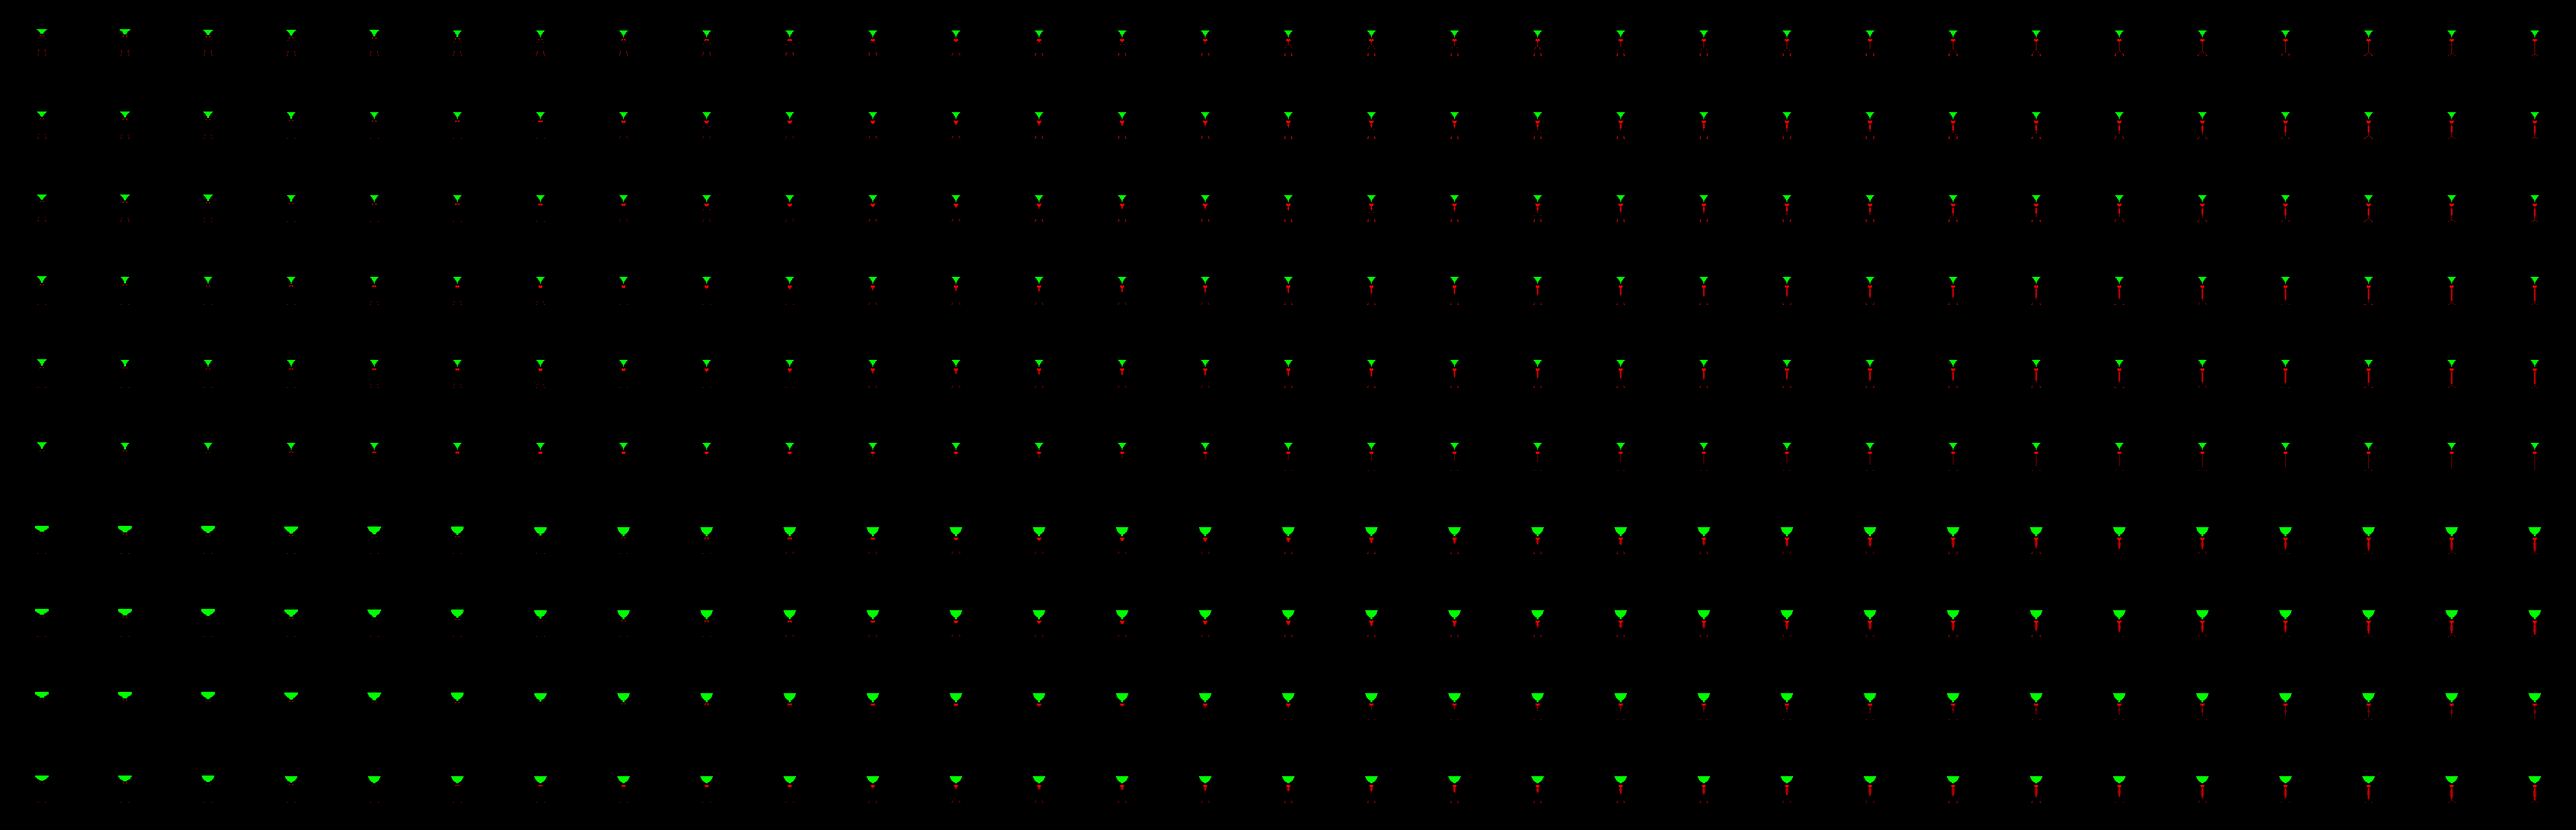
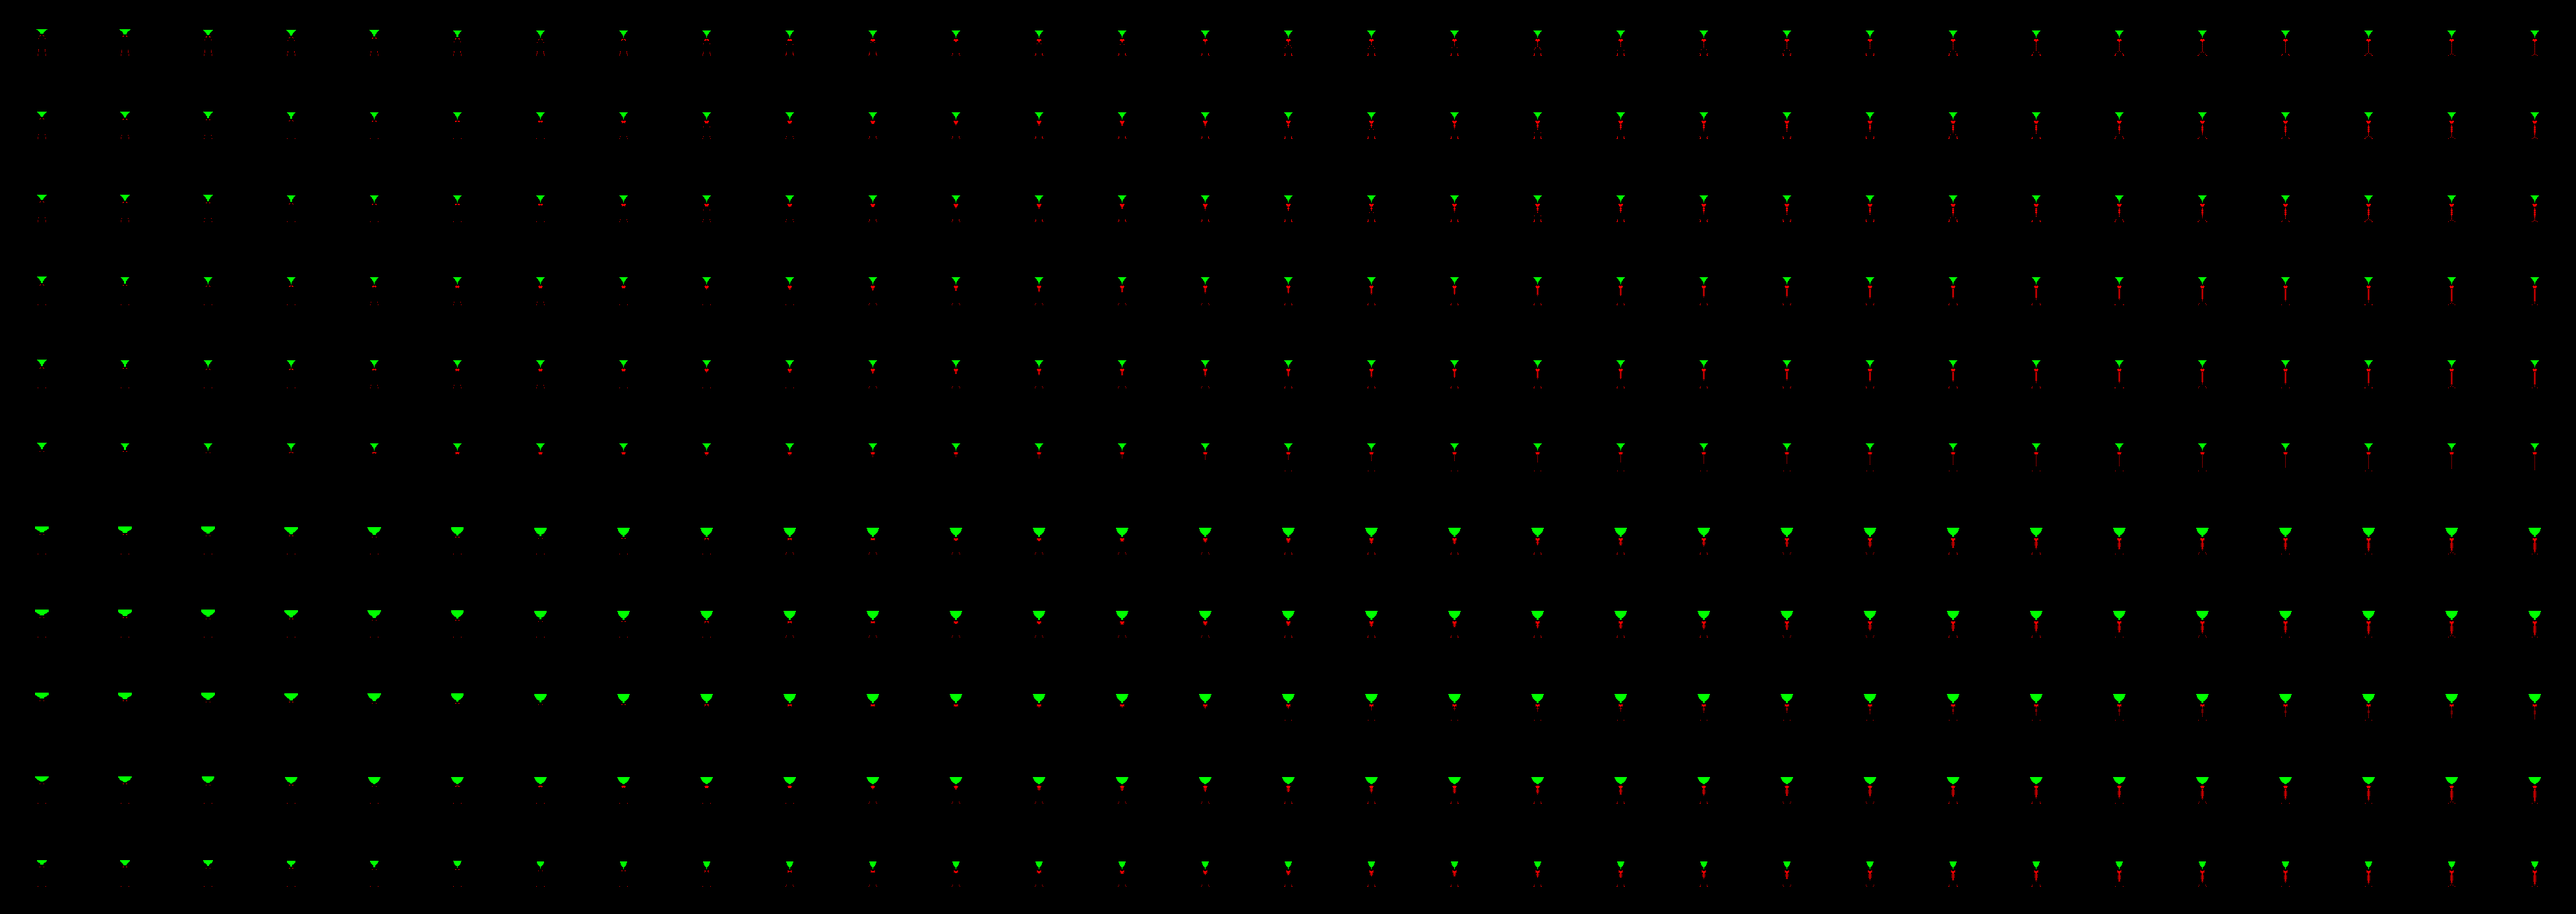
test_bodyM 子宮高潮改（使用者）：子宮高潮＝吸吮＋子宮一抽一抽（新圖片條 g3c）、可連續不結束；階段放慢（1/25 → 1/60）；子宮一次吸少一點，滿了被頂把精液噴回陰道；子宮裡的精液照子宮腔大小填滿；大腿動態實質重畫（trace128 LEG 姿勢 → rub_legs.png，左右腿各挑一張疊上去，不再推像素）；sw CACHE v583
Claude-Session: https://claude.ai/code/session_01FDQv7fCQXZPmpJP38rbXs5

diff --git a/web/sw.js b/web/sw.js
@@ -1,7 +1,7 @@
 // 網路優先、離線才退回快取;/api/ 不攔(存檔永遠即時)。
 // 重點:向伺服器要「完整回應」(no-store 的新 Request,不帶條件標頭),
 // 避免拿到空的 304 就丟給頁面 → 造成 app.js/模組載入到空內容而整個炸掉。
-const CACHE = "yorozuya-v582";
+const CACHE = "yorozuya-v583";
 const VISIT = "yoro-visit-pics";
 
 self.addEventListener("install", () => self.skipWaiting());

diff --git a/web/test_bodyM/index.html b/web/test_bodyM/index.html
@@ -137,6 +137,6 @@
 <script src="/content/room_doll.js?v=20"></script>
 <script type="module" src="/content/test_bodyM.js?v=7"></script>
 <script type="module" src="/content/test_bodyM_peek.js?v=9"></script>
-<script type="module" src="/content/test_bodyM_rub.js?v=27"></script>
+<script type="module" src="/content/test_bodyM_rub.js?v=28"></script>
 </body>
 </html>

diff --git a/tools/droom_groin/gen_rub_sheets.py b/tools/droom_groin/gen_rub_sheets.py
@@ -8,9 +8,11 @@
   rub_insert_g1p～g3p.png：同上、往外抽的那一下（PULL=1：陰道口那圈黏著莖被拖出來）
   rub_insert_g2s／g3s.png：2、3 階的痙攣那一下（SPASM=1：陰道因為興奮一抖一抖鎖緊，網頁一陣一陣跟平常那條交替）
   rub_insert_g3u.png：3 階子宮口吸吮往上那一下（BOB=1：子宮口往上縮、頸口張開；網頁上下交替吸陰道裡的精液）
+  rub_insert_g3c.png：3 階子宮抽動那一下（CRAMP=1：子宮高潮＝吸吮＋子宮一抽一抽收縮）
+  rub_legs.png：大腿抬起的姿勢（LEG＝−2～8 格，一格一張共 11 張；只留跟平常不一樣的那幾格、其他透明——網頁疊在上面，左右腿各挑一張）
   rub_open_e.png：打開後陰蒂勃起（CLIT=1；反應 1 階以上、還沒插進去時用）
   1 階起陰蒂勃起（CLIT=1）；3 階子宮腫脹（SWELL=1）、子宮口下降 DESC＝7 格（整個子宮降下來）；龜頭頂到子宮口就畫子宮口親著龜頭（愛心網頁畫）
-  rub_insert_lumen.png：上面插入那 10 條的陰道空間遮罩（一條一列，照 LUMEN_ROWS 順序；紅＝陰道裡空著、綠＝子宮腔）——網頁讓內射的精液照陰道形狀流
+  rub_insert_lumen.png：上面插入那 11 條的陰道空間遮罩（一條一列，照 LUMEN_ROWS 順序；紅＝陰道裡空著、綠＝子宮腔）——網頁讓內射的精液照陰道形狀流
 用法：python3 gen_rub_sheets.py [輸出資料夾，預設 web/test_bodyM]
 """
 import os, sys, subprocess, tempfile
@@ -29,6 +31,7 @@ with tempfile.TemporaryDirectory() as td:
         jobs += [(8, f'rub_insert_g{lv}.png', 1, r), (8, f'rub_insert_g{lv}p.png', 1, {**r, 'PULL': '1'})]
         if lv >= 2: jobs.append((8, f'rub_insert_g{lv}s.png', 1, {**r, 'SPASM': '1'}))
         if lv == 3: jobs.append((8, f'rub_insert_g{lv}u.png', 1, {**r, 'BOB': '1'}))
+        if lv == 3: jobs.append((8, f'rub_insert_g{lv}c.png', 1, {**r, 'CRAMP': '1'}))
     LUMEN_ROWS = [n for (m, n, a, e) in jobs if m == 8]
     lumen = Image.new('RGB', (128 * (INS1 - INS0 + 1), 128 * len(LUMEN_ROWS)), (0, 0, 0))
     only = os.environ.get('ONLY')                         # 只重產某幾條（逗號分隔檔名）
@@ -48,4 +51,23 @@ with tempfile.TemporaryDirectory() as td:
     if not only or 'lumen' in only:
         lumen.save(os.path.join(OUT, 'rub_insert_lumen.png'), optimize=True)
         print('rub_insert_lumen.png', lumen.size, LUMEN_ROWS)
+    # 大腿抬起：每個姿勢跟平常（LEG=0）比，只留不一樣的格子（大腿、大腿下緣那塊；胯下、腰、透視都不會動到）
+    LEG0, LEG1 = -2, 8                                    # 跟網頁 LEG0／LEG1 一樣
+    if not only or 'rub_legs.png' in only.split(','):
+        def body(leg):
+            fp = os.path.join(td, f'leg_{leg}.png')
+            subprocess.run([sys.executable, os.path.join(HERE, 'trace128.py'), fp, '--fill'], check=True,
+                           env={**os.environ, 'RUB': '6', 'PTIP': '106', 'LEG': str(leg)})
+            return Image.open(fp).convert('RGBA')
+        base = body(0)
+        sheet = Image.new('RGBA', (128 * (LEG1 - LEG0 + 1), 128), (0, 0, 0, 0))
+        for i, leg in enumerate(range(LEG0, LEG1 + 1)):
+            im = body(leg); bp, ip, sp = base.load(), im.load(), sheet.load()
+            for y in range(128):
+                for x in range(128):
+                    if ip[x, y] != bp[x, y]:
+                        assert abs(x + .5 - 64) > 17, ('大腿姿勢動到中間了', leg, x, y)
+                        sp[128 * i + x, y] = ip[x, y]
+        sheet.save(os.path.join(OUT, 'rub_legs.png'), optimize=True)
+        print('rub_legs.png', sheet.size)
 print('tips', TIP0, TIP1, 'insert', INS0, INS1)

diff --git a/tools/droom_groin/README.md b/tools/droom_groin/README.md
@@ -119,3 +119,19 @@ W=220 H=230 F=380 DIST=.40 EYE=.22 PITCH=12 CY=95 UP=3 OUT=out.png node groin_cl
 網頁 `applyBody`：整張畫面做垂直位移（不用重產圖）。陰莖、陰道口那塊（中間 ±12 格、下面）不動；大腿往兩邊越外面動越多（±12～34 格漸進）；腹部（中間、y<70）動一點。
 三個彈簧（左腿、右腿、腹部，彈性不一樣＝左右扭）：抽插每移動 1 格給一點速度（左 .11、右 .07、腹 .05）；痙攣那一下腿往上一抽；
 第 4 階段（子宮高潮）雙腿平衡點往上 4.5 格＋一直微微抖（±0.7），腹部也往上一點。
+
+## 子宮高潮改（2026-11-10 使用者）
+
+- 子宮高潮（第 4 階段）＝子宮開始吸吮、然後子宮一抽一抽；可以連續高潮，不會結束（停下來反應才慢慢退）。
+  - 吸吮：3 階插著、沒頂著子宮口時子宮口一直一上一下（陰道裡沒精液也在吸）；有精液時每下只吸 0.04（使用者：子宮一次不會吸很多）。
+  - 子宮抽動 `CRAMP=1`（`rub_insert_g3c.png`）：整個子宮收縮——變窄 2.4、子宮底往下擠 2.2、壁變厚更紅。網頁：進第 4 階段 0.5 秒後開始，一陣 2～4 下（縮 150ms／鬆 230ms），
+    兩陣隔 1.4～3.2 秒；每抽一下大腿往上一抬、肚子一縮。資訊列「子宮一抽一抽」；`state().cramps`。
+- 階段放慢：反應每格 1/25 → 1/60（來回抽一趟升一階，約 6 下到子宮高潮；之前兩下半就到、中間階段看不到）。
+- 子宮滿了被頂會噴回陰道：`WOMB_MAX`＝2（吸滿、或親著龜頭被射滿）；滿的時候龜頭往裡頂到子宮口＝子宮把 0.5 噴回陰道（子宮口前一團亮白濺開，陰道太滿就從陰道口噴出來），
+  之後子宮再慢慢吸回去。資訊列「子宮把精液噴回陰道！」；`state().gushes`。
+- 子宮裡的精液照子宮腔大小填：`WOMB_MAX`＝這一格的子宮腔整個填滿（之前 100% 只填 42 格，腫脹的子宮腔有 168 格）。
+- 大腿動態重畫（使用者：不是加線條，是實質重畫）：`LEG=n`（`trace128.py`）＝大腿以髖為軸往上抬 n 格——剖面橢圓往上、微微往外、變圓一點，大腿上緣跟著變陡，
+  大腿下緣外側跟著被帶上去；髖、腰、鼠蹊、胯下不動。`rub_legs.png`＝LEG −2～8 共 11 張，每張只留跟平常不一樣的格子（其他透明）。
+  網頁 `drawLegs`：左腿、右腿彈簧的位置各挑一張，疊在底圖上（左半、右半分開，所以左右可以不一樣高）；舊的「把大腿那幾欄像素往上推」拿掉，腹部位移照舊。
+  只重產這張：`ONLY=rub_legs.png python3 gen_rub_sheets.py`。
+- 其他：射精那一下先判斷有沒有親著子宮口再抖（之前差 2 格也算親著）；插進去時把吐在外面的痕跡清掉。
